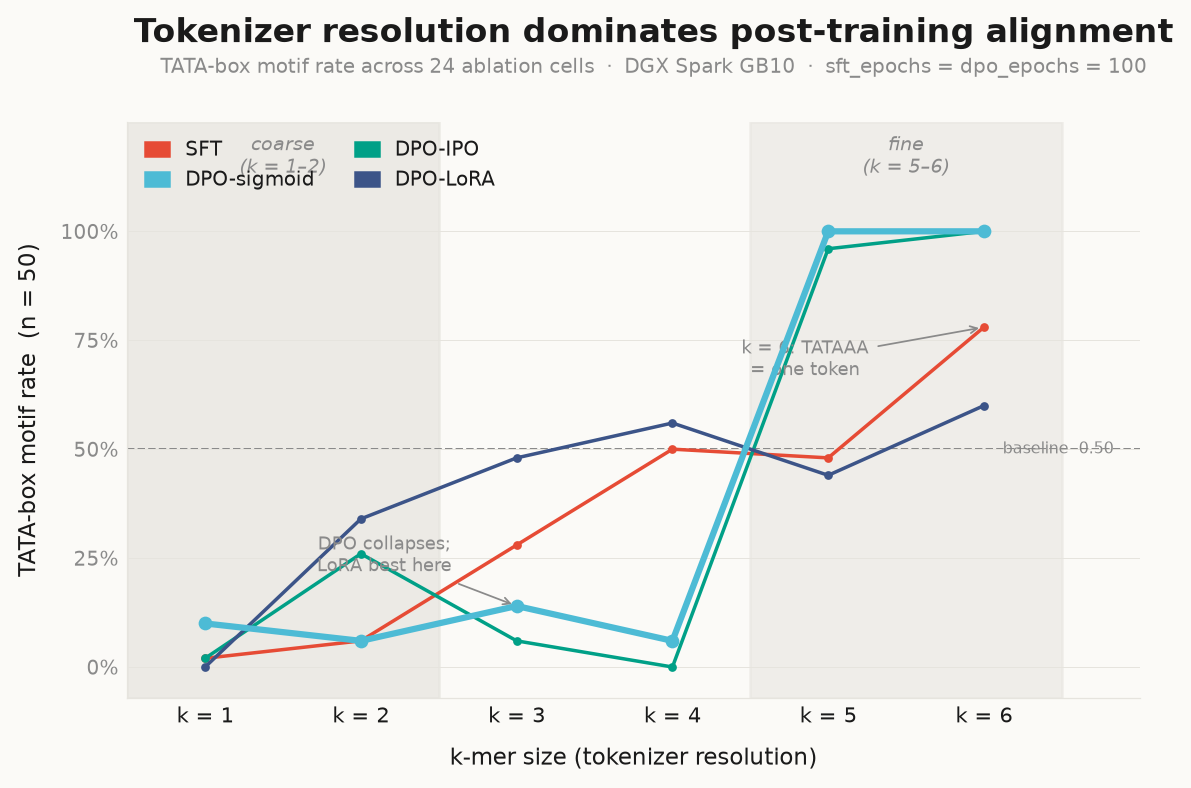
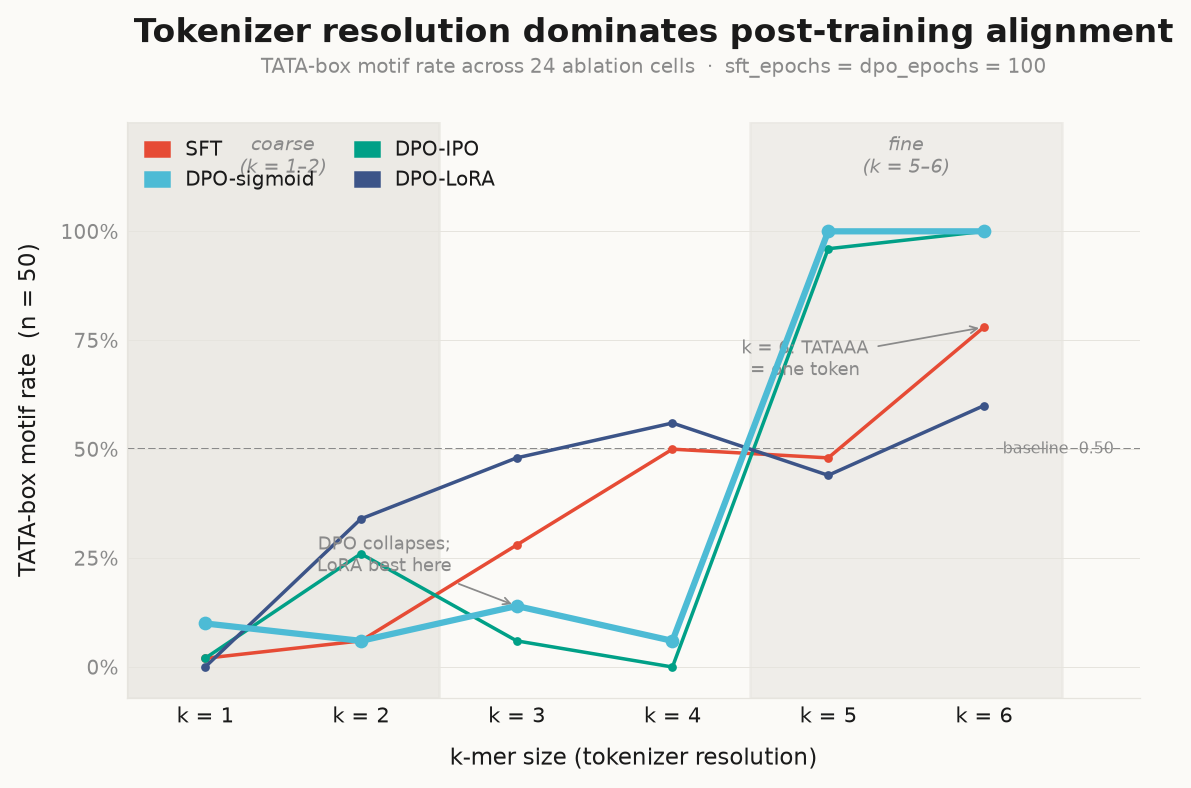
Remove hardware reference from fig1 subtitle

Changed region(s): [[0.1243, 0.0609, 0.9009, 0.0914], [0.932, 0.0609, 0.9631, 0.0914]]

diff --git a/scripts/plot_publication.py b/scripts/plot_publication.py
@@ -207,8 +207,7 @@ def fig1_performance(rows: list[dict[str, str]]) -> Path:
     fig_header(
         fig,
         "Tokenizer resolution dominates post-training alignment",
-        "TATA-box motif rate across 24 ablation cells"
-        "  ·  DGX Spark GB10  ·  sft_epochs = dpo_epochs = 100",
+        "TATA-box motif rate across 24 ablation cells  ·  sft_epochs = dpo_epochs = 100",
     )
     fig.subplots_adjust(top=0.84, bottom=0.13, left=0.11, right=0.86)
     return save(fig, "fig1_performance")
@@ -304,8 +303,7 @@ def fig2_param_scale(rows: list[dict[str, str]]) -> Path:
     fig_header(
         fig,
         "Embedding table grows as 4ᵏ · backbone stays fixed",
-        "Parameter composition per tokenizer resolution"
-        "  ·  n_embd = 48, n_layer = 2, n_head = 2",
+        "Parameter composition per tokenizer resolution  ·  n_embd = 48, n_layer = 2, n_head = 2",
     )
     fig.subplots_adjust(top=0.78, bottom=0.15, left=0.01, right=0.99, wspace=0.06)
     return save(fig, "fig2_param_scale")